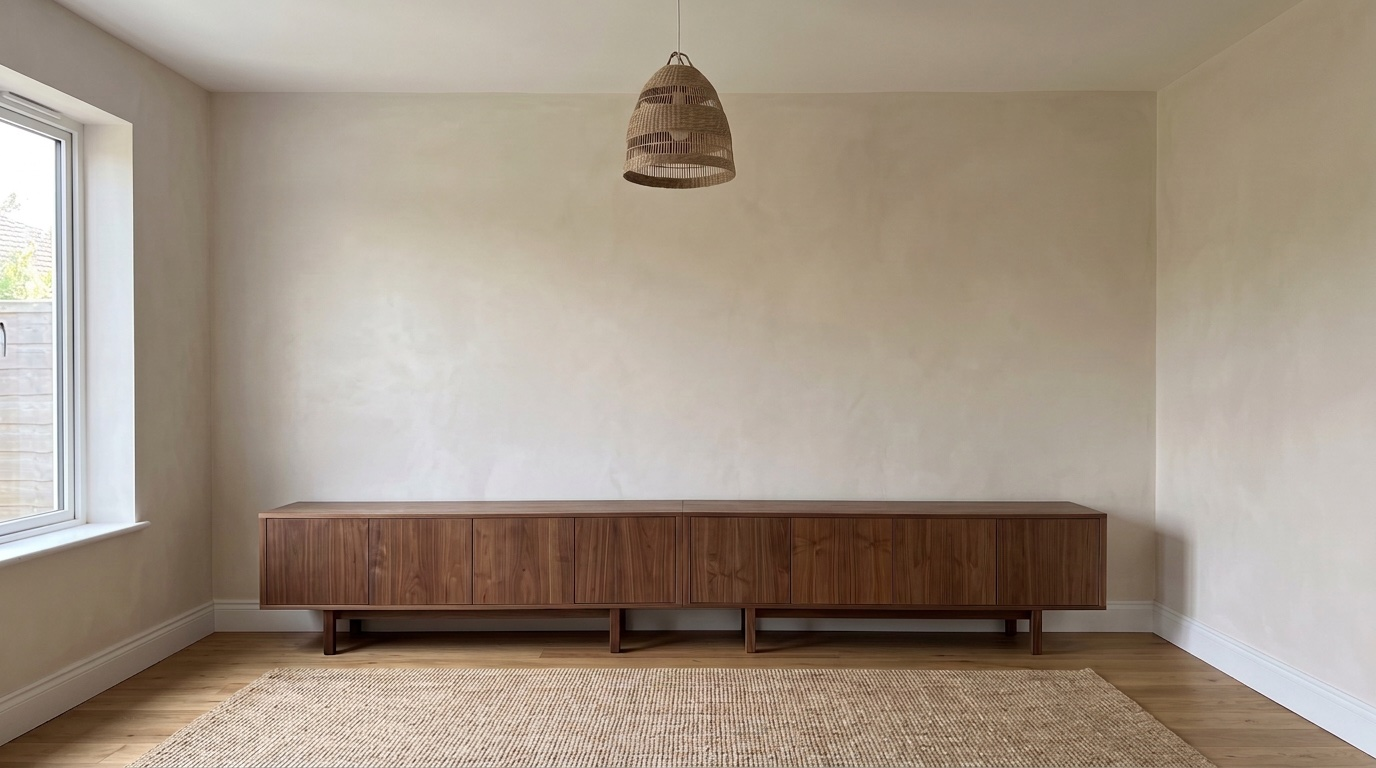
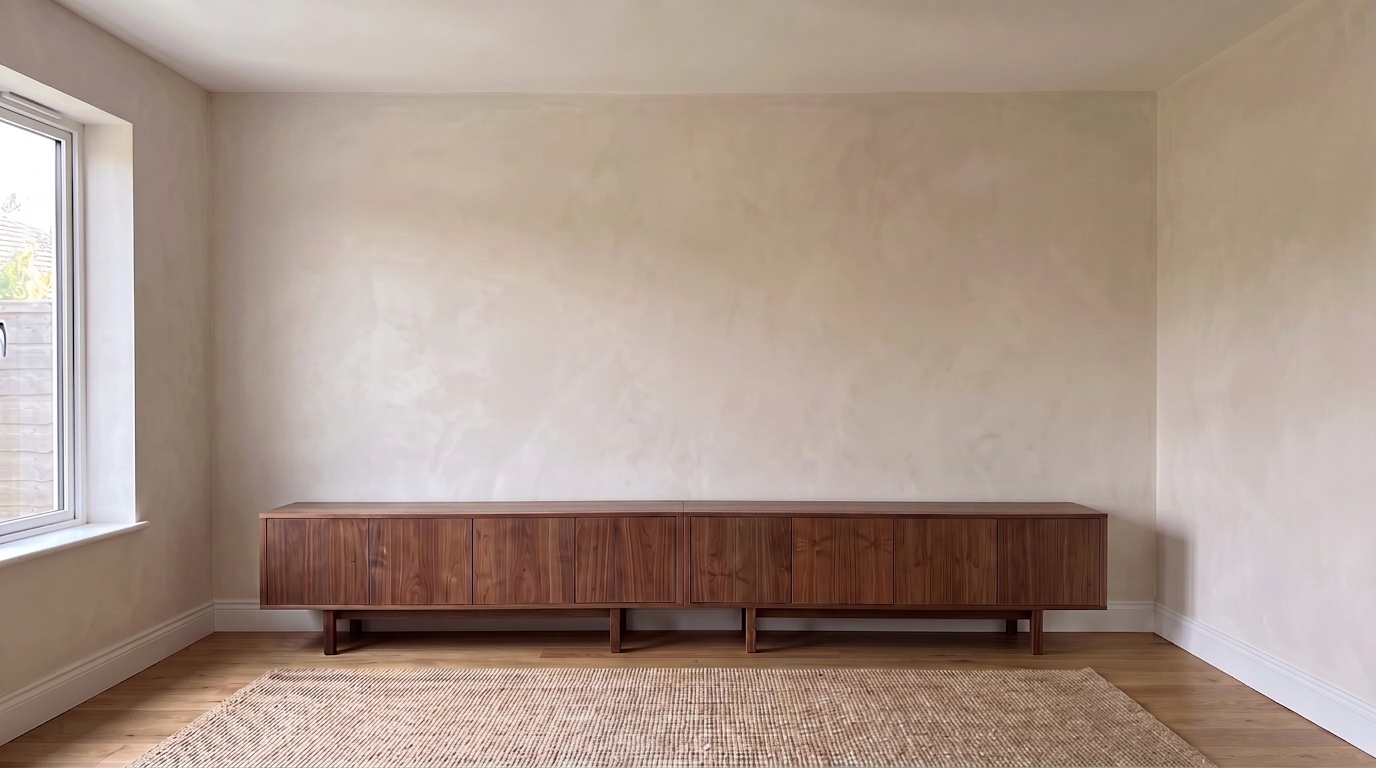
Swap the example room for one without the lamp and with landscape art
The pendant lamp hung where layouts put frames, so groups overlapped it.
Three of the seven pieces are now landscape, which makes for more varied
groupings. The abstract's size is set to a standard 60 x 80 cm, which matches
its proportion to the 40 x 50 cm botanical in the photo, so two rows fit under
the ceiling instead of always falling back to one. The landing assets are
regenerated from the new room so the hero, steps and screenshot match the demo.

Changed region(s): [[0.0938, 0.8438, 0.875, 1.0], [0.4375, 0.0625, 0.5312, 0.25], [0.4688, 0.7188, 0.5, 0.75]]

diff --git a/src/assets/example/example.ts b/src/assets/example/example.ts
@@ -11,85 +11,74 @@ export const example: Example = {
       {
         label: "abstract painting",
         corners: {
-          topLeft: { x: 214, y: 394 },
-          topRight: { x: 333, y: 396 },
-          bottomRight: { x: 330, y: 655 },
-          bottomLeft: { x: 212, y: 653 },
+          topLeft: { x: 213, y: 395 },
+          topRight: { x: 333, y: 398 },
+          bottomRight: { x: 332, y: 655 },
+          bottomLeft: { x: 211, y: 656 },
         },
-        widthCm: 70,
-        heightCm: 90,
+        widthCm: 60,
+        heightCm: 80,
       },
       {
         label: "botanical print",
         corners: {
-          topLeft: { x: 341, y: 494 },
-          topRight: { x: 416, y: 495 },
-          bottomRight: { x: 414, y: 653 },
-          bottomLeft: { x: 339, y: 652 },
+          topLeft: { x: 336, y: 494 },
+          topRight: { x: 412, y: 497 },
+          bottomRight: { x: 411, y: 654 },
+          bottomLeft: { x: 336, y: 654 },
         },
         widthCm: 40,
         heightCm: 50,
       },
       {
-        label: "black and white photograph",
+        label: "coastal seascape print",
         corners: {
-          topLeft: { x: 426, y: 532 },
-          topRight: { x: 491, y: 532 },
-          bottomRight: { x: 490, y: 653 },
-          bottomLeft: { x: 425, y: 652 },
+          topLeft: { x: 414, y: 517 },
+          topRight: { x: 516, y: 518 },
+          bottomRight: { x: 516, y: 653 },
+          bottomLeft: { x: 414, y: 652 },
         },
-        widthCm: 30,
+        widthCm: 50,
         heightCm: 40,
       },
       {
-        label: "colourful abstract print",
+        label: "vintage travel poster",
         corners: {
-          topLeft: { x: 500, y: 549 },
-          topRight: { x: 545, y: 550 },
-          bottomRight: { x: 544, y: 653 },
-          bottomLeft: { x: 499, y: 652 },
+          topLeft: { x: 553, y: 483 },
+          topRight: { x: 628, y: 484 },
+          bottomRight: { x: 628, y: 653 },
+          bottomLeft: { x: 553, y: 652 },
         },
-        widthCm: 21,
+        widthCm: 40,
+        heightCm: 50,
+      },
+      {
+        label: "landscape watercolor print",
+        corners: {
+          topLeft: { x: 629, y: 537 },
+          topRight: { x: 709, y: 538 },
+          bottomRight: { x: 709, y: 656 },
+          bottomLeft: { x: 629, y: 655 },
+        },
+        widthCm: 40,
         heightCm: 30,
       },
       {
-        label: "travel poster",
+        label: "square textile art",
         corners: {
-          topLeft: { x: 553, y: 483 },
-          topRight: { x: 628, y: 483 },
-          bottomRight: { x: 627, y: 653 },
-          bottomLeft: { x: 552, y: 653 },
+          topLeft: { x: 715, y: 538 },
+          topRight: { x: 782, y: 538 },
+          bottomRight: { x: 782, y: 657 },
+          bottomLeft: { x: 715, y: 657 },
         },
-        widthCm: 50,
-        heightCm: 70,
-      },
-      {
-        label: "line drawing",
-        corners: {
-          topLeft: { x: 636, y: 524 },
-          topRight: { x: 698, y: 525 },
-          bottomRight: { x: 698, y: 653 },
-          bottomLeft: { x: 636, y: 653 },
-        },
-        widthCm: 30,
-        heightCm: 40,
-      },
-      {
-        label: "patterned textile art",
-        corners: {
-          topLeft: { x: 705, y: 538 },
-          topRight: { x: 778, y: 539 },
-          bottomRight: { x: 777, y: 653 },
-          bottomLeft: { x: 704, y: 653 },
-        },
-        widthCm: 40,
-        heightCm: 40,
+        widthCm: 35,
+        heightCm: 35,
       },
     ],
     wall: {
-      surface: { left: 152, top: 119, right: 840, bottom: 653 },
-      surfaceWidthCm: 400,
-      hangAbove: { left: 188, right: 805, top: 653 },
+      surface: { left: 153, top: 118, right: 840, bottom: 654 },
+      surfaceWidthCm: 420,
+      hangAbove: { left: 188, right: 805, top: 654 },
     },
   },
 };

diff --git a/src/app/page.tsx b/src/app/page.tsx
@@ -8,11 +8,11 @@ import after from "@/assets/landing/after.jpg";
 import appMeasure from "@/assets/landing/app-measure.jpg";
 import before from "@/assets/example/room.jpg";
 import clean from "@/assets/example/clean.jpg";
-import botanical from "@/assets/landing/piece-1.jpg";
-import photograph from "@/assets/landing/piece-2.jpg";
-import print from "@/assets/landing/piece-3.jpg";
-import poster from "@/assets/landing/piece-4.jpg";
-import textile from "@/assets/landing/piece-6.jpg";
+import botanical from "@/assets/landing/botanical.jpg";
+import coastal from "@/assets/landing/coastal.jpg";
+import poster from "@/assets/landing/poster.jpg";
+import textile from "@/assets/landing/textile.jpg";
+import watercolour from "@/assets/landing/watercolour.jpg";
 
 // Priced per wall, since most people plan one wall at a time. Prices are placeholders until payments are in place.
 const plans = [
@@ -182,7 +182,7 @@ export default function Landing() {
                     {i === 1 && (
                       // The art found in the photo, collected in a tray like the planner's.
                       <div className="absolute inset-x-3 bottom-3 flex h-14 items-center justify-center gap-2 overflow-hidden rounded-lg bg-white/90 px-3 shadow-lg backdrop-blur">
-                        {[botanical, photograph, print, poster, textile].map((piece) => (
+                        {[botanical, coastal, poster, watercolour, textile].map((piece) => (
                           <Image key={piece.src} src={piece} alt="" className="h-9 w-auto rounded-[2px] shadow ring-1 ring-black/5 sm:h-10" />
                         ))}
                       </div>
